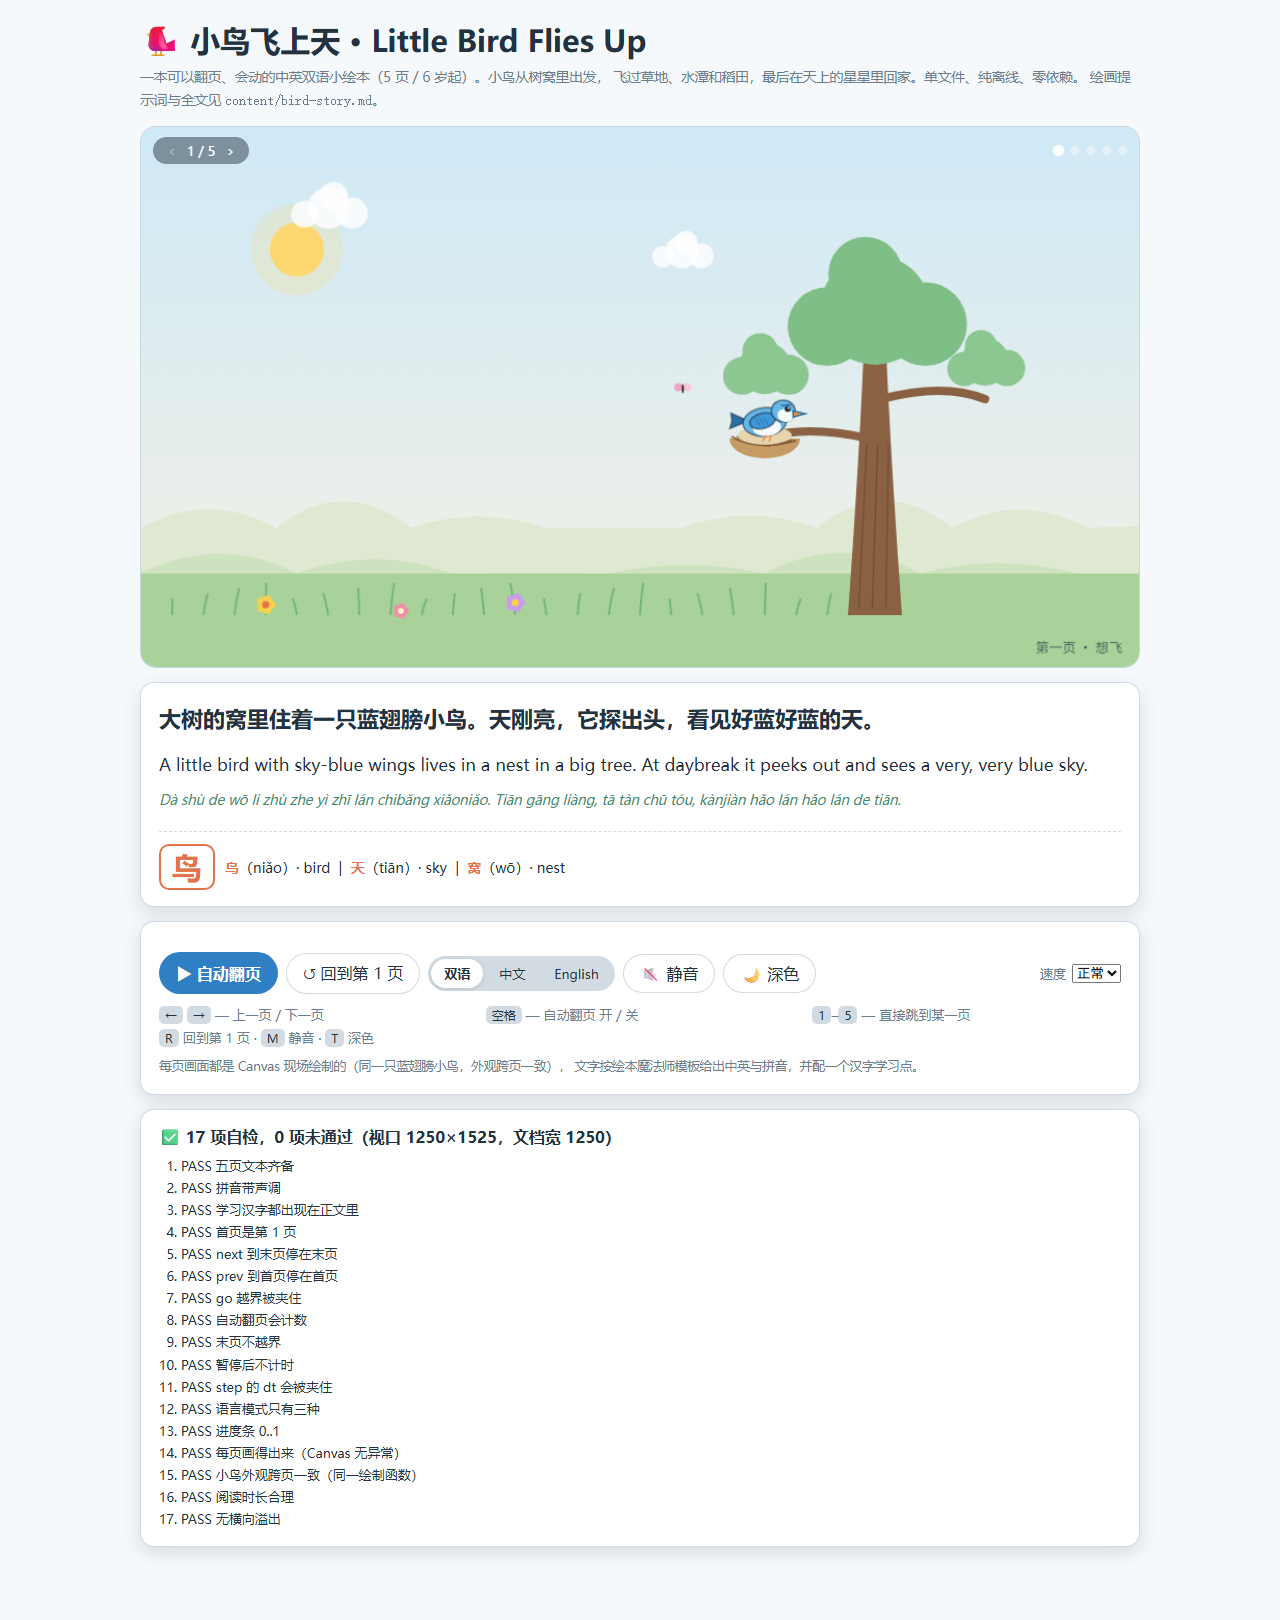
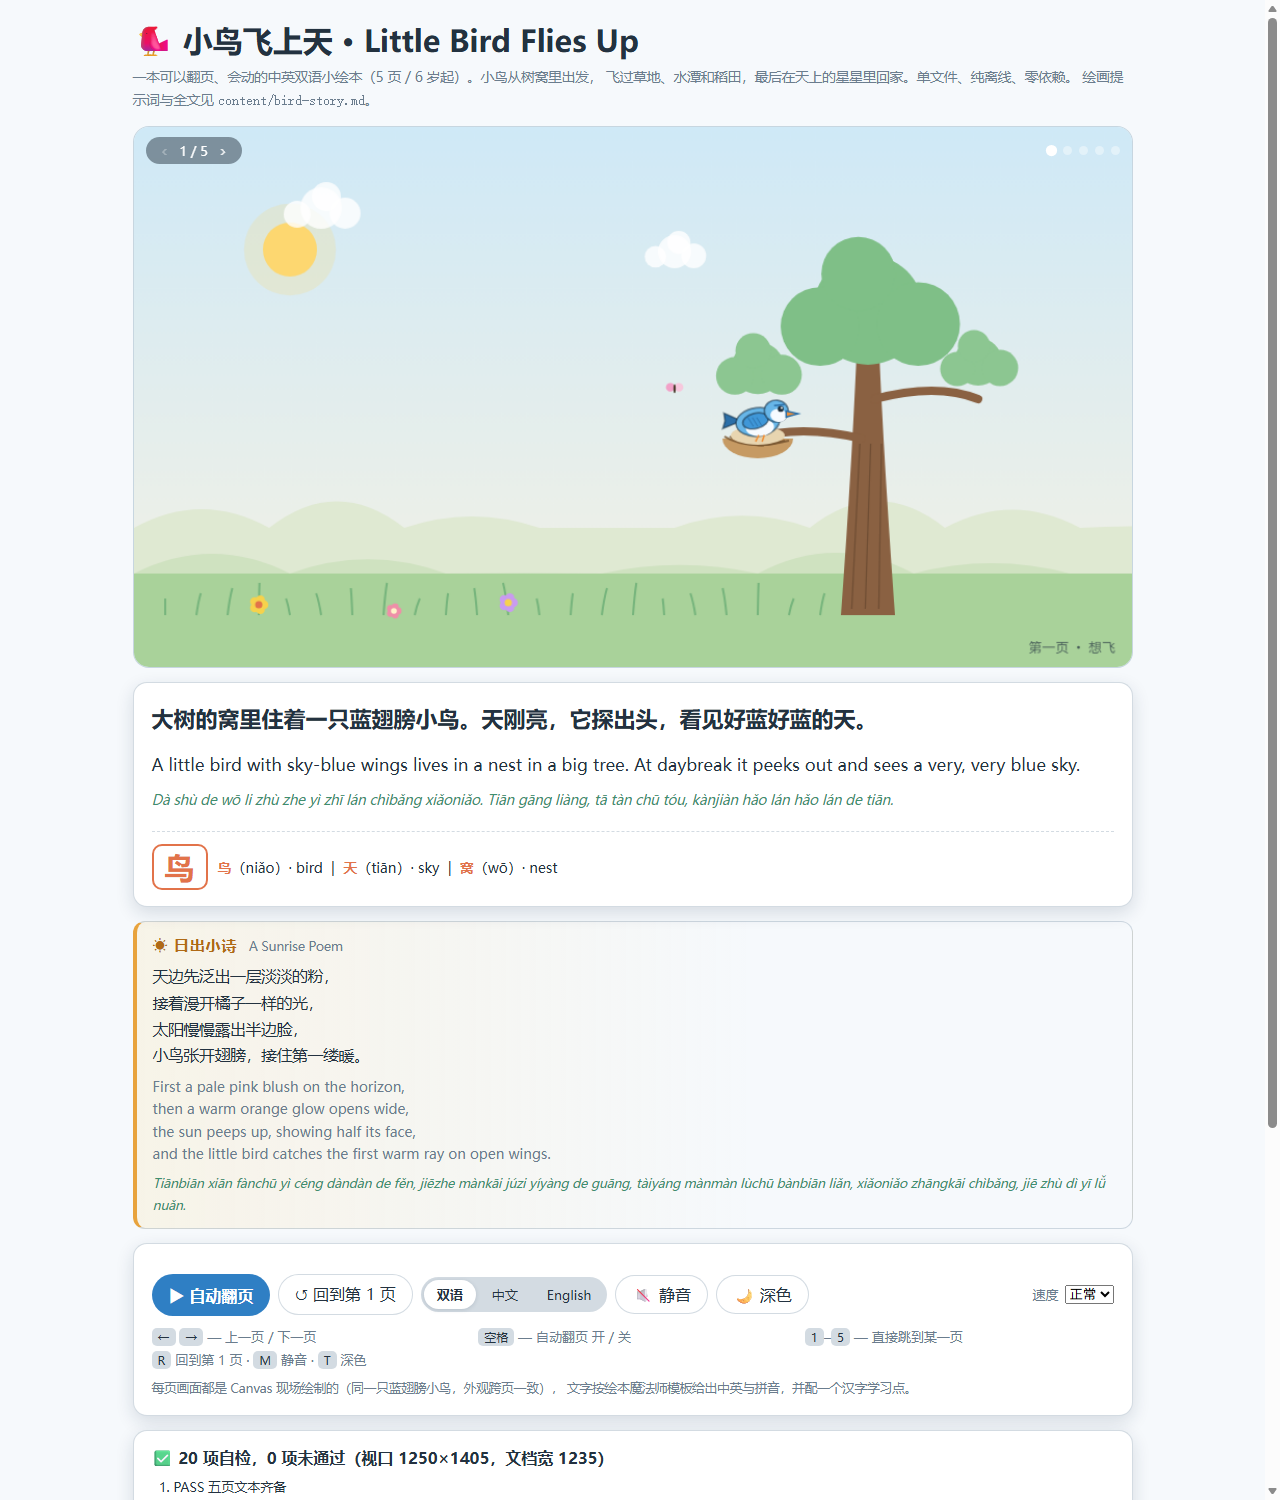
Add a four-line sunrise poem to the bird story's first page
The story's opening page is the dawn page, so the poem lives there: four
bilingual lines (pink blush, orange glow, the sun's half face, the bird
catching the first warm ray) plus pinyin, rendered in a sun-tinted card.

- SUNRISE_POEM lives in the DOM-free core block next to BOOK
- paintPoem() shows the card only on the dawn page and follows the
  bilingual/Chinese/English language mode
- adds three in-page self-test assertions (20 total, all passing)
- documents the poem in content/bird-story.md and README.md
- adds before/after captures at the same viewport, theme and pose

diff --git a/bird-story.html b/bird-story.html
@@ -9,11 +9,13 @@
   --ink:#233240; --paper:#f6f9fc; --card:#ffffff; --accent:#2f7fc4; --accent-ink:#ffffff;
   --muted:#6b7d8e; --line:rgba(110,135,160,.30); --sky1:#bfe3f7; --sky2:#eef8fd;
   --char:#e2734a; --pin:#3f8f6f; --shadow:rgba(20,45,70,.14);
+  --sun:#e8a33d; --sun-ink:#b06a15;
 }
 [data-theme="dark"]{
   --ink:#e6eef5; --paper:#0e1520; --card:#182432; --accent:#63b4ea; --accent-ink:#08131e;
   --muted:#9db0c1; --line:rgba(150,180,205,.26); --sky1:#122b3d; --sky2:#0b1a27;
   --char:#ffa07a; --pin:#7fd6ab; --shadow:rgba(0,0,0,.45);
+  --sun:#f5c25e; --sun-ink:#f0cf8e;
 }
 *{box-sizing:border-box}
 html,body{margin:0}
@@ -72,7 +74,20 @@ label.opt{display:inline-flex;align-items:center;gap:6px;font-size:13px;color:va
 #report{display:none}
 #report ol{margin:8px 0 0;padding-left:22px;font-size:13px;line-height:1.7}
 #report li.fail{color:#d1493b}
-@media (max-width:560px){ .read{min-height:150px} .chip{font-size:12px;padding:4px 9px} }
+/* 日出小诗：只出现在第一页，四行中英对照 + 一行拼音 */
+.poem{display:none;margin-top:14px;padding:12px 14px 12px 16px;border-radius:12px;
+  border:1px solid var(--line);border-left:4px solid var(--sun);
+  background:linear-gradient(90deg,rgba(255,216,130,.16),transparent 62%);}
+.poem h2{margin:0 0 8px;font-size:15px;letter-spacing:.06em;color:var(--sun-ink)}
+.poem h2 small{font-weight:400;font-size:12.5px;color:var(--muted);letter-spacing:0;margin-left:6px}
+.poem ul{margin:0;padding:0;list-style:none}
+.poem li{font-size:15.5px;line-height:1.7}
+#poemEn{margin-top:7px}
+.poem li.poem-en{font-size:14px;line-height:1.6;color:var(--muted)}
+.poem .pin{margin:8px 0 0;font-size:12.5px;color:var(--pin)}
+[data-theme="dark"] .poem{background:linear-gradient(90deg,rgba(255,196,92,.13),transparent 62%)}
+@media (max-width:560px){ .read{min-height:150px} .chip{font-size:12px;padding:4px 9px}
+  .poem li{font-size:14.5px} }
 </style>
 </head>
 <body>
@@ -102,6 +117,13 @@ label.opt{display:inline-flex;align-items:center;gap:6px;font-size:13px;color:va
       <span class="hanzi" id="hanzi">鸟</span>
       <span class="say" id="say"></span>
     </div>
+  </div>
+
+  <div class="poem" id="poemCard" aria-labelledby="poemTitle">
+    <h2 id="poemTitle">☀ 日出小诗 <small>A Sunrise Poem</small></h2>
+    <ul id="poemZh"></ul>
+    <ul id="poemEn"></ul>
+    <p class="pin" lang="zh-Latn-pinyin" id="poemPin"></p>
   </div>
 
   <div class="card">
@@ -141,6 +163,24 @@ label.opt{display:inline-flex;align-items:center;gap:6px;font-size:13px;color:va
 'use strict';
 /* __CORE_START__ ======================================================= */
 /* 绘本内核：文本、状态机、汉字学习点。只用标准数学、不访问 DOM，可整段抽出单测。 */
+
+/* 日出小诗：只在第一页（日出页）显示，中英四行对照 + 一行拼音 */
+const SUNRISE_POEM = {
+  title: { zh: '日出小诗', en: 'A Sunrise Poem' },
+  zh: [
+    '天边先泛出一层淡淡的粉，',
+    '接着漫开橘子一样的光，',
+    '太阳慢慢露出半边脸，',
+    '小鸟张开翅膀，接住第一缕暖。'
+  ],
+  en: [
+    'First a pale pink blush on the horizon,',
+    'then a warm orange glow opens wide,',
+    'the sun peeps up, showing half its face,',
+    'and the little bird catches the first warm ray on open wings.'
+  ],
+  pin: 'Tiānbiān xiān fànchū yì cénɡ dàndàn de fěn, jiēzhe mànkāi júzi yíyànɡ de ɡuānɡ, tàiyánɡ mànmàn lùchū bànbiān liǎn, xiǎoniǎo zhānɡkāi chìbǎnɡ, jiē zhù dì yī lǚ nuǎn.'
+};
 
 const BOOK = {
   title: { zh: '小鸟飞上天', en: 'Little Bird Flies Up' },
@@ -729,6 +769,25 @@ function buildDots(){
     dotsEl.appendChild(d);
   }
 }
+/* 日出小诗只出现在第一页（日出页）；双语时中英并排，单语时只留对应语言 */
+function paintPoem(pageIdx, lang){
+  const card = $('poemCard'), zhBox = $('poemZh'), enBox = $('poemEn'), pinBox = $('poemPin');
+  const onDawnPage = BOOK.pages[pageIdx].id === 'nest';
+  card.style.display = onDawnPage ? 'block' : 'none';
+  if (!onDawnPage) return;
+  const showZh = lang === 'both' || lang === 'zh';
+  const showEn = lang === 'both' || lang === 'en';
+  if (!zhBox.children.length){
+    for (const line of SUNRISE_POEM.zh){ const li = document.createElement('li');
+      li.textContent = line; zhBox.appendChild(li); }
+    for (const line of SUNRISE_POEM.en){ const li = document.createElement('li');
+      li.className = 'poem-en'; li.textContent = line; enBox.appendChild(li); }
+    pinBox.textContent = SUNRISE_POEM.pin;
+  }
+  zhBox.style.display = showZh ? '' : 'none';
+  enBox.style.display = showEn ? '' : 'none';
+  pinBox.style.display = showZh ? '' : 'none';
+}
 function paint(){
   const p = G.current();
   zhEl.textContent = p.zh; enEl.textContent = p.en; pinEl.textContent = p.pin;
@@ -744,6 +803,7 @@ function paint(){
   $('next').disabled = G.S.page === G.count() - 1;
   [].forEach.call(dotsEl.children, (d, i) => d.classList.toggle('on', i === G.S.page));
   $('flip').textContent = G.S.auto ? '⏸ 暂停翻页' : '▶ 自动翻页';
+  paintPoem(G.S.page, G.S.lang);
 }
 function render(){
   const p = G.current(), meta = SCENE_META[p.scene] || { dark: false };
@@ -816,6 +876,7 @@ window.book = {
   setLang: l => { G.setLang(l); [].forEach.call(document.querySelectorAll('#langSeg button'),
     x => x.classList.toggle('on', x.dataset.lang === G.S.lang)); paint(); },
   theme: v => setTheme(v), freeze: v => { frozen = !!v; },
+  poem: () => ({ ...SUNRISE_POEM, visible: $('poemCard').style.display !== 'none' }),
   pose: t => { G.S.elapsed = +t || 0; frozen = true; render(); }
 };
 
@@ -858,6 +919,16 @@ if (Q.get('selftest') === '1'){
   ok('小鸟外观跨页一致（同一绘制函数）', (() => {
     const src = drawBird.toString(); return /BIRD\.wing/.test(src) && /BIRD\.beak/.test(src); })());
   ok('阅读时长合理', (() => { const s = G.readTime(); return s > 20 && s < 120; })());
+  ok('日出小诗中英四行齐备', SUNRISE_POEM.zh.length === 4 && SUNRISE_POEM.en.length === 4
+    && SUNRISE_POEM.zh.every(l => l && l.trim()) && SUNRISE_POEM.en.every(l => l && l.trim()));
+  ok('日出小诗拼音带声调', /[àáâãāəěèéêēìíîīòóôōùúūǜü]/.test(SUNRISE_POEM.pin));
+  ok('日出小诗只出现在第一页', (() => {
+    const card = $('poemCard');
+    paintPoem(0, 'both'); const a = card.style.display !== 'none';
+    paintPoem(1, 'both'); const b = card.style.display === 'none';
+    paintPoem(4, 'both'); const c = card.style.display === 'none';
+    paintPoem(0, 'both'); return a && b && c;
+  })());
   ok('无横向溢出', document.documentElement.scrollWidth <= (window.innerWidth || 1e9) + 2);
   const box = $('report'), list = $('reportList'), title = $('reportTitle');
   const fails = out.filter(r => !r.pass).length;

diff --git a/README.md b/README.md
@@ -23,6 +23,9 @@
 | 语言 | 双语 / 中文 / English 三档切换 |
 | 静音 / 深色 | <kbd>M</kbd> · <kbd>T</kbd> |
 
+第一页（清晨页）还带一首四行的**日出小诗**《日出小诗 / A Sunrise Poem》：天边泛粉、橘光漫开、
+太阳露出半边脸、小鸟接住第一缕暖，中英对照并附拼音；翻到别的页面时这首诗自动收起。
+
 每页画面都是 Canvas 现场绘制：同一只蓝翅膀小鸟（蓝背白腹、深色眼纹、橙色喙，跨页外观一致），
 五页分别是清晨大树与窝、草地低飞、水潭倒影、高空稻田与雁阵、星空回家。音效用 WebAudio 现场合成，无音频文件。
 
@@ -31,7 +34,7 @@
 | 参数 | 作用 |
 | --- | --- |
 | `?page=1..5` | 直接打开某一页 |
-| `?selftest=1` | 页面底部显示 17 项自检结果（文本齐备、拼音带声调、学习汉字出现在正文、翻页边界、自动翻页计数、每页可绘制、无横向溢出等） |
+| `?selftest=1` | 页面底部显示 20 项自检结果（文本齐备、拼音带声调、学习汉字出现在正文、翻页边界、自动翻页计数、每页可绘制、无横向溢出等） |
 | `?auto=1` | 载入即开始自动翻页 |
 | `?rate=2.2` | 自动翻页每页秒数 |
 | `?lang=zh\|en` | 单语显示 |
@@ -43,7 +46,7 @@
 
 ## 验证
 
-- `bird-story.html?selftest=1`：17 项页内断言全部通过（无头 Edge 抓取 DOM 核对，含「无横向溢出」）。
+- `bird-story.html?selftest=1`：20 项页内断言全部通过（无头 Edge 抓取 DOM 核对，含「无横向溢出」）。
 - 无头 Edge 实测 `?auto=1&ff=12` 会走到第 4 页、`ff=100` 停在第 5 页，自动翻页与边界行为真实生效。
 - 五个页面 + 深色 + 窄屏（504×900）截图见 `docs/screenshots/`：
   `before-bird-story-baseline.png` 是改动前 `main` 上的实际内容（仓库里没有任何小鸟故事页面），

diff --git a/content/bird-story.md b/content/bird-story.md
@@ -41,6 +41,22 @@ A little bird with sky-blue wings lives in a nest in a big tree. At daybreak it 
 
 ---
 
+🌅 **日出小诗 / A Sunrise Poem**（只排在第一页，四行中英对照）
+
+天边先泛出一层淡淡的粉，
+接着漫开橘子一样的光，
+太阳慢慢露出半边脸，
+小鸟张开翅膀，接住第一缕暖。
+
+First a pale pink blush on the horizon,
+then a warm orange glow opens wide,
+the sun peeps up, showing half its face,
+and the little bird catches the first warm ray on open wings.
+
+拼音 / Pinyin: Tiānbiān xiān fànchū yì cénɡ dàndàn de fěn, jiēzhe mànkāi júzi yíyànɡ de ɡuānɡ, tàiyánɡ mànmàn lùchū bànbiān liǎn, xiǎoniǎo zhānɡkāi chìbǎnɡ, jiē zhù dì yī lǚ nuǎn.
+
+---
+
 🔤 **拼音 / Pinyin:**
 Dà shù de wō li zhù zhe yì zhī lán chìbǎng xiǎoniǎo. Tiān gāng liàng, tā tàn chū tóu, kànjiàn hǎo lán hǎo lán de tiān.
 
@@ -207,4 +223,4 @@ A little blue-winged bird peeks out of its nest at dawn and really looks at the 
 - **Model**: qfmodel (DeepSeek Harness worker, ticket `bird-story-ce1936d1581d`)
 - **Timestamp**: 2026-11-02T19:20+08:00
 - **Configuration**: watercolor / meadow→pond→rice-paddy→stars / little blue songbird / 5 pages / age 6 / theme:courage+discovery / pacing:building / color:warm-bright
-- **Companion page**: `bird-story.html`（同一份文本、拼音与汉字学习点，配 Canvas 水彩风动画；`?selftest=1` 有 17 项页内自检）
+- **Companion page**: `bird-story.html`（同一份文本、拼音与汉字学习点，配 Canvas 水彩风动画；`?selftest=1` 有 20 项页内自检）
